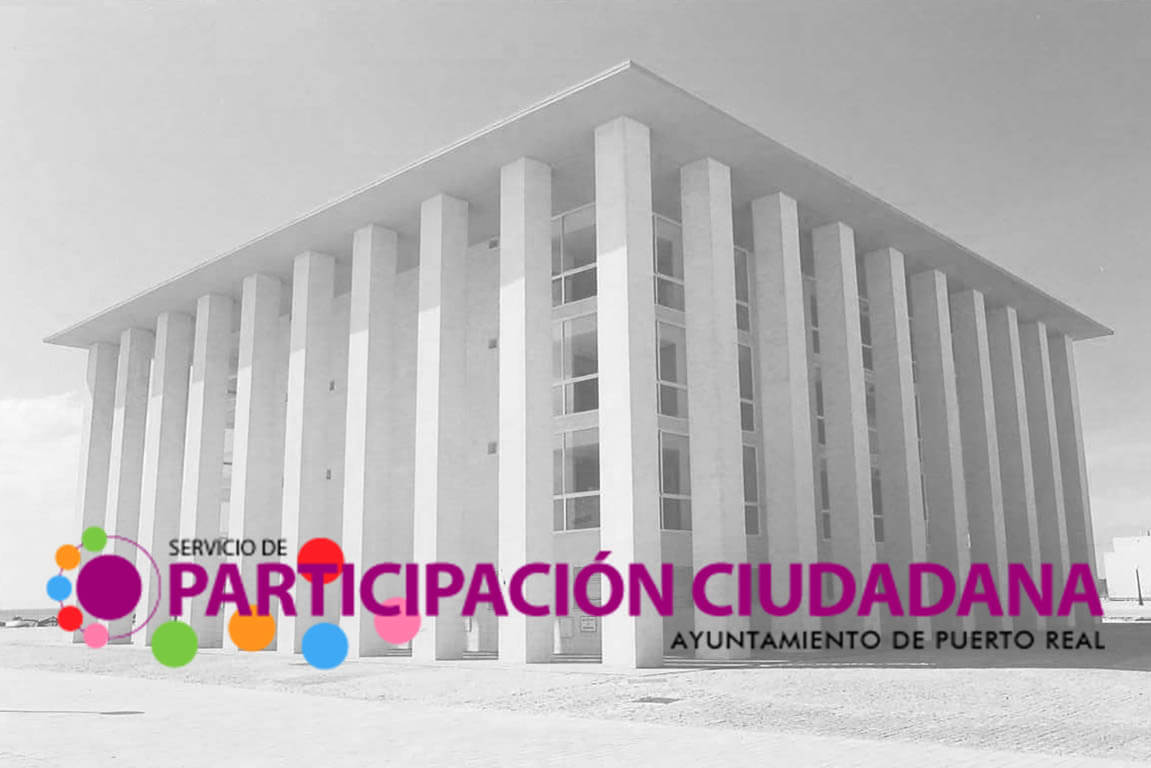
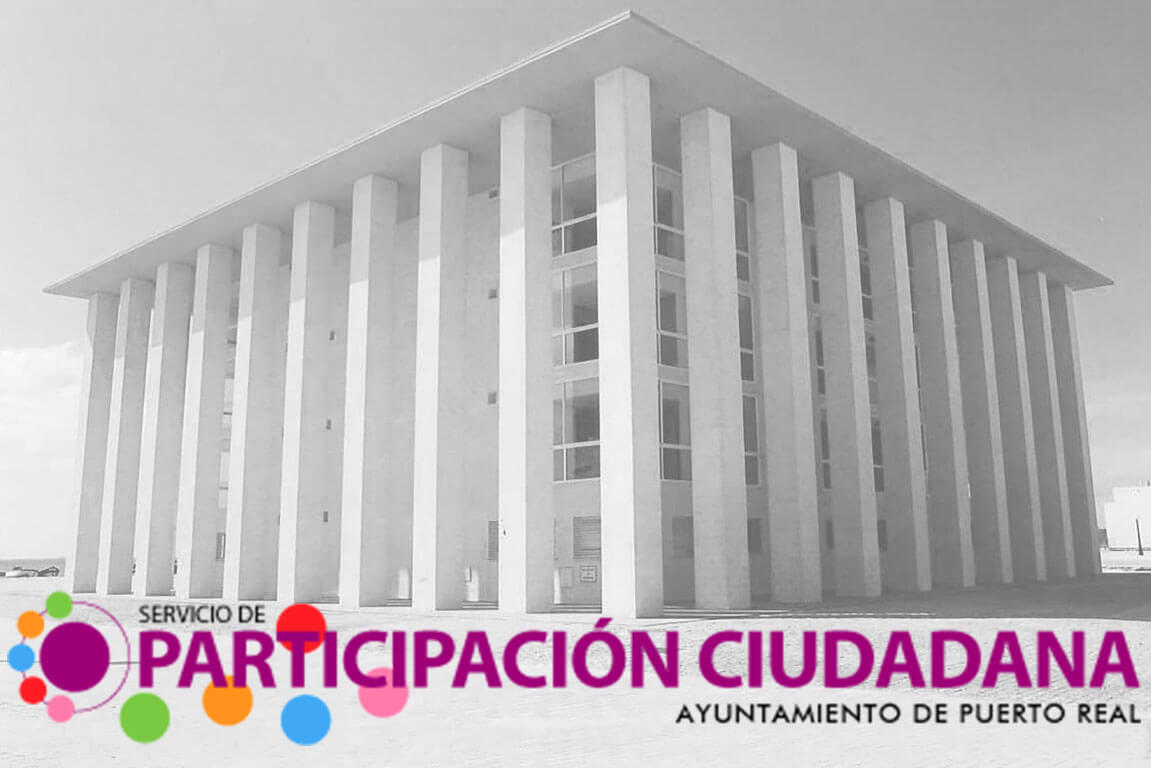
Modificación de imagen del menú, eliminación de seguimiento_page, modificación de rutas del main

diff --git a/lib/main.dart b/lib/main.dart
@@ -8,7 +8,6 @@ import 'package:appparticipacion/src/pages/noticias_detalles.dart';
 import 'package:appparticipacion/src/pages/noticias_page.dart';
 import 'package:appparticipacion/src/pages/puntoInteres_detalle.dart';
 import 'package:appparticipacion/src/pages/puntoInteres_page.dart';
-import 'package:appparticipacion/src/pages/seguimiento_ticket_page.dart';
 import 'package:appparticipacion/src/pages/tipo_incidencia_page.dart';
 import 'package:appparticipacion/src/utils/utils.dart';
 import 'package:flutter/material.dart';
@@ -42,7 +41,6 @@ class MyApp extends StatelessWidget {
           'tipoincidencia'      : (BuildContext context) => TipoIncidenciaPage(),
           'puntoInteres'        : (BuildContext context) => PuntoInteresPage(),
           'ayudaPage'           : (BuildContext context) => AyudaPage(),
-          'seguimientoTicketPage': (BuildContext context) => SeguimientoTicketPage(),
         },
         theme: ThemeData(
           primaryColor: Color.fromRGBO(162, 0, 125, 1.0)
